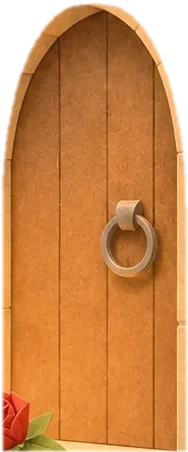
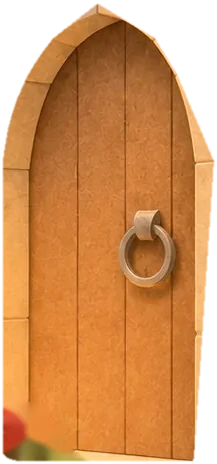
Puerta solo de madera, luna que baja, madrugada, estrella fugaz horizontal y rosa que se balancea
- La puerta: solo gira la madera, recortada por el arco; la piedra del marco y la
  rosa del escalón quedan fijas delante (antes la hoja arrastraba piedra y rosa).
- Escena 6: la luna baja hasta esconderse tras las colinas.
- Desenlace de madrugada, con el cielo repintado.
- Estrella fugaz casi horizontal con la estela alineada con el movimiento.
- Hallazgo: sin destello; la rosa diminuta se balancea sobre su tallo.

Claude-Session: https://claude.ai/code/session_01U2YmjohacyumAbuxLH3kyg

Changed region(s): [[0.0, 0.0, 1.0, 1.0], [0.4521, 0.0929, 0.4787, 0.1239]]

diff --git a/web/cuentos/raton-rosa/cuento.css b/web/cuentos/raton-rosa/cuento.css
@@ -36,8 +36,8 @@ body{margin:0;min-width:280px;background:var(--papel);color:var(--tinta);-webkit
 .lamina--hallazgo{--foto:url('img/03-hallazgo.webp')}
 .lamina--noche{--foto:url('img/04-viaje-nocturno.webp')}
 .lamina--entrega{--foto:url('img/05-puerta.webp')}
-.lamina--puerta{--foto:url('img/05-puerta-estatica.webp')}
-.lamina--amanecer{--foto:url('img/06-amanecer-estatico.webp')}
+.lamina--puerta{--foto:url('img/05-puerta-sinluna.webp')}
+.lamina--amanecer{--foto:url('img/06-madrugada.webp')}
 
 /* ---------- Texto ---------- */
 .cuento{position:relative;z-index:1}
@@ -88,7 +88,7 @@ html.js .texto{opacity:0}
 }
 
 /* ---------- Piezas que se mueven sobre las láminas (en % del cuadro) ---------- */
-.cuadro>span,.hoja-puerta{position:absolute;pointer-events:none;opacity:0}
+.cuadro>span{position:absolute;pointer-events:none;opacity:0}
 /* Hojas de papel que cruzan el jardín */
 .hoja-viajera{z-index:3;width:3%;aspect-ratio:7/10;transform-origin:50% 100%;
   background:linear-gradient(125deg,rgba(255,255,255,.22),transparent 40%),repeating-linear-gradient(118deg,rgba(255,255,255,.10) 0 2px,rgba(0,0,0,.04) 2px 4px),linear-gradient(126deg,#b9c98d 0 48%,#8aa568 48% 100%);
@@ -97,24 +97,31 @@ html.js .texto{opacity:0}
 .hoja-viajera--b{left:58%;top:54%;width:2.4%}
 .hoja-viajera--c{left:79%;top:50%;width:2.1%}
 .hoja-viajera--d{left:64%;top:69%;width:2.6%}
-/* La rosa diminuta se ilumina al encontrarla: centrado en la rosa (77 %, 75 %) */
-.destello-rosa,.pulso-rosa,.brillo-rosa{translate:-50% -50%;border-radius:50%;z-index:3}
-.destello-rosa{left:77.2%;top:74.6%;width:17%;aspect-ratio:1}
-.destello-rosa::before,.destello-rosa::after{content:"";position:absolute;inset:0;border-radius:50%}
-.destello-rosa::before{background:repeating-conic-gradient(from 0deg,rgba(214,170,88,.9) 0 3%,transparent 3% 12.5%);mask:radial-gradient(circle,transparent 0 46%,#000 47% 56%,transparent 57%);-webkit-mask:radial-gradient(circle,transparent 0 46%,#000 47% 56%,transparent 57%)}
-.destello-rosa::after{background:radial-gradient(circle,rgba(255,247,228,.5),transparent 62%);mix-blend-mode:screen}
-.pulso-rosa{left:77.2%;top:74.6%;width:8%;aspect-ratio:1;background:radial-gradient(circle,rgba(255,244,208,.6),rgba(255,244,208,.2) 38%,transparent 72%);mix-blend-mode:screen}
+/* La rosa diminuta, recortada de la lámina, se balancea sobre la base del tallo */
+.rosa-pequena{position:absolute;left:70.78%;top:72.55%;width:13.28%;height:10.53%;z-index:3;transform-origin:48.8% 97.7%}
+.rosa-pequena img{display:block;width:100%;height:100%;transform-origin:48.8% 97.7%}
+.lamina--hallazgo.activa .rosa-pequena img{animation:balanceo 2.6s ease-in-out infinite alternate}
+@keyframes balanceo{from{rotate:-3.5deg}to{rotate:3.5deg}}
+.brillo-rosa{translate:-50% -50%;border-radius:50%;z-index:3}
 /* De noche, la rosa que lleva en la pata brilla un poco */
 .brillo-rosa{left:55%;top:68.5%;width:11%;aspect-ratio:1;background:radial-gradient(circle,rgba(255,226,170,.55),rgba(255,214,150,.18) 45%,transparent 70%);mix-blend-mode:screen}
-.estrella-fugaz{left:12%;top:13%;z-index:2;width:1%;aspect-ratio:1;border-radius:50%;background:#fff2b6;box-shadow:0 0 16px 4px rgba(255,239,194,.62)}
-.estrella-fugaz::after{content:"";position:absolute;right:45%;top:44%;width:1400%;height:2px;background:linear-gradient(90deg,rgba(255,245,214,0),rgba(255,236,183,.85));transform:translateY(-50%) rotate(-24deg);transform-origin:right center}
+.estrella-fugaz{left:6%;top:22%;z-index:2;width:1%;aspect-ratio:1;border-radius:50%;background:#fff2b6;box-shadow:0 0 16px 4px rgba(255,239,194,.62)}
+.estrella-fugaz::after{content:"";position:absolute;right:45%;top:44%;width:1400%;height:2px;background:linear-gradient(90deg,rgba(255,245,214,0),rgba(255,236,183,.85));transform:translateY(-50%) rotate(8deg);transform-origin:right center}
 
 /* ---------- La puerta ----------
    Fondo: la casa con la puerta abierta y el ratón blanco dentro (05-puerta-estatica).
    Encima, la hoja de la puerta recortada de la lámina cerrada: al girar sobre su bisagra
    descubre al ratón. Mientras está cerrada, la escena es idéntica a la entrega sin el ratón marrón. */
 .cuadro--casa{perspective:900px;perspective-origin:74% 62%}
-.cuadro>.hoja-puerta{inset:auto;left:64.4%;top:51.02%;width:19.98%;height:27.03%;z-index:3;opacity:1;transform-origin:100% 50%;backface-visibility:hidden}
+/* El hueco recorta el giro: la madera nunca se sale del arco. */
+.hueco-puerta{position:absolute;inset:0;z-index:3;pointer-events:none;perspective:700px;perspective-origin:74% 64%;
+  clip-path:polygon(72.79% 50.66%,68.23% 52.63%,66.95% 53.53%,65.14% 55.20%,64.29% 56.28%,63.34% 58.01%,62.81% 59.81%,62.81% 77.51%,63.23% 77.75%,64.19% 77.93%,82.89% 77.93%,83.10% 77.27%,85.12% 59.99%,81.51% 55.20%,78.96% 52.75%)}
+.hoja-puerta{position:absolute;left:62.487%;top:50.419%;width:23.061%;height:27.751%;transform-origin:100% 50%;will-change:transform}
+/* Piedra del marco y rosa del escalón: fijas, por delante de la puerta */
+.cuadro>.marco-puerta{inset:auto;left:59.086%;top:49.821%;width:27.63%;height:29.007%;z-index:4}
+/* La luna baja hasta esconderse tras las colinas */
+.cielo{position:absolute;inset:0;z-index:1;clip-path:inset(0 0 48.5% 0);pointer-events:none}
+.luna{position:absolute;left:7.864%;top:4.127%;width:19.447%;height:12.261%;will-change:transform}
 .luz-puerta{left:56%;top:52%;width:38%;height:36%;z-index:2;background:radial-gradient(ellipse at 50% 70%,rgba(255,206,130,.55),rgba(255,190,110,.18) 45%,transparent 70%);mix-blend-mode:screen}
 .mejilla{left:71.2%;top:70.6%;width:3.2%;height:1.5%;z-index:2;border-radius:50%;background:radial-gradient(ellipse,rgba(228,96,108,.85),rgba(232,120,120,.35) 55%,transparent 75%);mix-blend-mode:multiply;rotate:-12deg}
 .luz-puerta--fija{opacity:.55}
@@ -128,3 +135,4 @@ html.js .texto{opacity:0}
 }
 html:not(.js) .visor{display:none}
 html:not(.js) .pasaje,html:not(.js) .pasaje--puerta,html:not(.js) .pasaje--amanecer{min-height:100svh;background:var(--imagen) center center/cover no-repeat}
+@media (prefers-reduced-motion:reduce){.rosa-pequena img{animation:none}}

diff --git a/web/cuentos/raton-rosa/index.html b/web/cuentos/raton-rosa/index.html
@@ -24,7 +24,7 @@
       <div class="cuadro"><img src="img/02-busqueda.webp" alt=""><span class="hoja-viajera hoja-viajera--a"></span><span class="hoja-viajera hoja-viajera--b"></span><span class="hoja-viajera hoja-viajera--c"></span><span class="hoja-viajera hoja-viajera--d"></span></div>
     </div>
     <div class="lamina lamina--hallazgo" data-lamina="3" data-y="-1" data-z=".10">
-      <div class="cuadro"><img src="img/03-hallazgo.webp" alt=""><span class="destello-rosa"></span><span class="pulso-rosa"></span></div>
+      <div class="cuadro"><img src="img/03-hallazgo-fondo.webp" alt=""><div class="rosa-pequena"><img src="img/03-rosa-pequena.webp" alt=""></div></div>
     </div>
     <div class="lamina lamina--noche" data-lamina="4" data-x="-2" data-y="1" data-z=".07">
       <div class="cuadro"><img src="img/04-viaje-nocturno.webp" alt=""><span class="estrella-fugaz"></span><span class="brillo-rosa"></span></div>
@@ -33,17 +33,19 @@
     <div class="lamina lamina--entrega" data-lamina="5" data-z=".05">
       <div class="cuadro cuadro--casa"><img src="img/05-puerta.webp" alt=""></div>
     </div>
-    <div class="lamina lamina--puerta" data-lamina="6" data-z0=".05" data-z=".16">
+    <div class="lamina lamina--puerta" data-lamina="6" data-z0=".05" data-z=".10">
       <div class="cuadro cuadro--casa">
-        <img src="img/05-puerta-estatica.webp" alt="">
+        <img src="img/05-puerta-sinluna.webp" alt="">
+        <div class="cielo"><img class="luna" src="img/luna.webp" alt=""></div>
         <span class="luz-puerta"></span>
         <span class="mejilla"></span>
-        <img class="hoja-puerta" src="img/05-hoja-puerta.webp" alt="">
+        <div class="hueco-puerta"><img class="hoja-puerta" src="img/05-hoja-puerta.webp" alt=""></div>
+        <img class="marco-puerta" src="img/05-marco-puerta.webp" alt="">
       </div>
     </div>
-    <div class="lamina lamina--amanecer" data-lamina="7" data-z0=".16" data-z="0">
+    <div class="lamina lamina--amanecer" data-lamina="7" data-z0=".10" data-z="0">
       <div class="cuadro cuadro--casa">
-        <img src="img/06-amanecer-estatico.webp" alt="">
+        <img src="img/06-madrugada.webp" alt="">
         <span class="luz-puerta luz-puerta--fija"></span>
         <span class="mejilla mejilla--fija"></span>
       </div>
@@ -74,7 +76,7 @@
     <section class="pasaje pasaje--puerta" data-pasaje="6" style="--imagen:url('img/05-puerta-estatica.webp')" aria-label="La puerta se abre y el ratón blanco descubre la rosa">
       <div class="texto" aria-hidden="true"></div>
     </section>
-    <section class="pasaje pasaje--amanecer" data-pasaje="7" style="--imagen:url('img/06-amanecer-estatico.webp')" aria-label="El final del cuento">
+    <section class="pasaje pasaje--amanecer" data-pasaje="7" style="--imagen:url('img/06-madrugada.webp')" aria-label="El final del cuento">
       <div class="texto">
         <p>Desde entonces se sabe que los regalos pequeños también llegan lejos.</p>
         <p class="ultimo">Solo hace falta alguien que los lleve.</p>

diff --git a/web/cuentos/raton-rosa/cuento.js b/web/cuentos/raton-rosa/cuento.js
@@ -27,20 +27,17 @@
       hoja.style.opacity = vis.toFixed(3);
       hoja.style.transform = `translate(${dx * p}%,${dy * p}%) rotate(${-18 + p * giro}deg)`;
     }),
-    // El hallazgo: un destello sobre la rosa diminuta
+    // El hallazgo: la rosa diminuta se inclina un poco con el scroll (y se balancea sola con CSS)
     3: (c, p) => {
-      const h = suave(interv(p, .15, .6)), vis = h * (1 - interv(p, .8, .95));
-      c.querySelector('.destello-rosa').style.opacity = (vis * .95).toFixed(3);
-      c.querySelector('.destello-rosa').style.transform = `scale(${.6 + h * .5}) rotate(${h * 25}deg)`;
-      c.querySelector('.pulso-rosa').style.opacity = (vis * .9).toFixed(3);
-      c.querySelector('.pulso-rosa').style.transform = `scale(${.5 + h})`;
+      c.querySelector('.rosa-pequena').style.transform = `rotate(${(suave(p) - .5) * 7}deg)`;
     },
-    // La noche: estrella fugaz y la rosa que brilla en su pata
+    // La noche: estrella fugaz que cruza el cielo casi en horizontal, con la estela alineada,
+    // y la rosa que brilla un poco en su pata
     4: (c, p) => {
-      const t = suave(interv(p, .12, .6)), vis = interv(p, .12, .2) * (1 - interv(p, .5, .62));
+      const t = interv(p, .1, .62), vis = interv(p, .1, .18) * (1 - interv(p, .5, .62));
       const fugaz = c.querySelector('.estrella-fugaz');
       fugaz.style.opacity = vis.toFixed(3);
-      fugaz.style.transform = `translate(${t * 4200}%,${t * 1700}%)`;
+      fugaz.style.transform = `translate(${t * 4400}%,${t * 620}%)`;   // 8° de bajada, igual que la estela
       const brillo = c.querySelector('.brillo-rosa');
       brillo.style.opacity = (interv(p, .3, .7) * (.75 + .25 * Math.sin(p * 18))).toFixed(3);
     },
@@ -50,10 +47,13 @@
       const rubor = suave(interv(p, .6, .85));
       const hoja = c.querySelector('.hoja-puerta');
       hoja.style.transform = `rotateY(${abre * -80}deg)`;
-      hoja.style.filter = `brightness(${1 - abre * .5})`;
+      hoja.style.filter = `brightness(${1 - abre * .55})`;
       hoja.style.opacity = String(abre > .97 ? 0 : 1);   // ya abierta, la de la lámina ocupa su sitio
       c.querySelector('.luz-puerta').style.opacity = (abre * .55).toFixed(3);
       c.querySelector('.mejilla').style.opacity = (rubor * .9).toFixed(3);
+      // la luna baja durante toda la escena hasta esconderse tras las colinas
+      const baja = suave(p);
+      c.querySelector('.luna').style.transform = `translate(${baja * 25}%,${baja * 340}%)`;
     },
   };
 

diff --git a/web/cuentos/raton-rosa/README.md b/web/cuentos/raton-rosa/README.md
@@ -13,17 +13,22 @@ Portada y seis escenas. Se conserva literalmente el cuento de `PRODUCTOS[id="rat
 - Al cambiar de escena, la siguiente aparece entera debajo y la anterior se desvanece encima: no se transparenta el papel entre dos láminas.
 - En pantallas anchas la lámina va a la derecha y el texto en la columna izquierda, sin pisar el dibujo.
 - **La búsqueda:** hojas de papel que cruzan el jardín.
-- **El hallazgo:** destello y pulso de luz sobre la rosa diminuta.
-- **La noche:** estrella fugaz y la rosa brillando en la pata del ratón.
-- **La casa (escenas 5, 6 y 7):** la cámara se acerca a la puerta y luego se aleja sin saltos. En la 6, la hoja de la puerta (`img/05-hoja-puerta.webp`, recortada de `05-puerta.webp`) gira sobre su bisagra encima de `05-puerta-estatica.webp`, sale la luz de dentro, aparece el ratón blanco y se sonroja.
+- **El hallazgo:** la rosa diminuta (`img/03-rosa-pequena.webp`, recortada de la lámina) se balancea sobre su tallo encima de `img/03-hallazgo-fondo.webp`.
+- **La noche:** estrella fugaz que cruza el cielo casi en horizontal, con la estela alineada con su movimiento, y la rosa brillando en la pata del ratón.
+- **La casa (escenas 5, 6 y 7):** la cámara se acerca a la puerta y luego se aleja sin saltos. En la 6, solo la madera de la puerta (`img/05-hoja-puerta.webp`) gira sobre su bisagra, recortada por el arco; la piedra del marco y la rosa (`img/05-marco-puerta.webp`) quedan fijas delante. Sale la luz de dentro, aparece el ratón blanco y se sonroja, mientras la luna (`img/luna.webp`) baja hasta esconderse tras las colinas.
+- **Desenlace:** ya es de madrugada (`img/06-madrugada.webp`).
 
 No hay botones de escena, barra de progreso, audio ni reproducción automática.
 
 ## Recursos
 
-- `img/05-hoja-puerta.webp`: hoja de la puerta cerrada con transparencia, para animarla.
-- `img/05-puerta-estatica.webp` y `img/06-amanecer-estatico.webp`: fondos de la puerta y del desenlace, y láminas fijas sin JavaScript o con movimiento reducido.
-- `img/raton-blanco.webp` ya no se usa en la animación (el ratón blanco está dentro de la lámina de la puerta abierta).
+Las capas animadas se han sacado de las propias láminas, para que encajen al píxel:
+
+- `03-hallazgo-fondo.webp` + `03-rosa-pequena.webp`: el jardín sin la rosa y la rosa sola.
+- `05-puerta-sinluna.webp` + `luna.webp`: la casa con la puerta abierta sin luna, y la luna sola.
+- `05-hoja-puerta.webp`: la madera de la puerta cerrada; `05-marco-puerta.webp`: la piedra del arco y la rosa del escalón.
+- `06-madrugada.webp`: el desenlace con cielo de madrugada.
+- `05-puerta-estatica.webp` y `06-amanecer-estatico.webp` se conservan como originales; `raton-blanco.webp` ya no se usa.
 
 ## Pruebas
 
